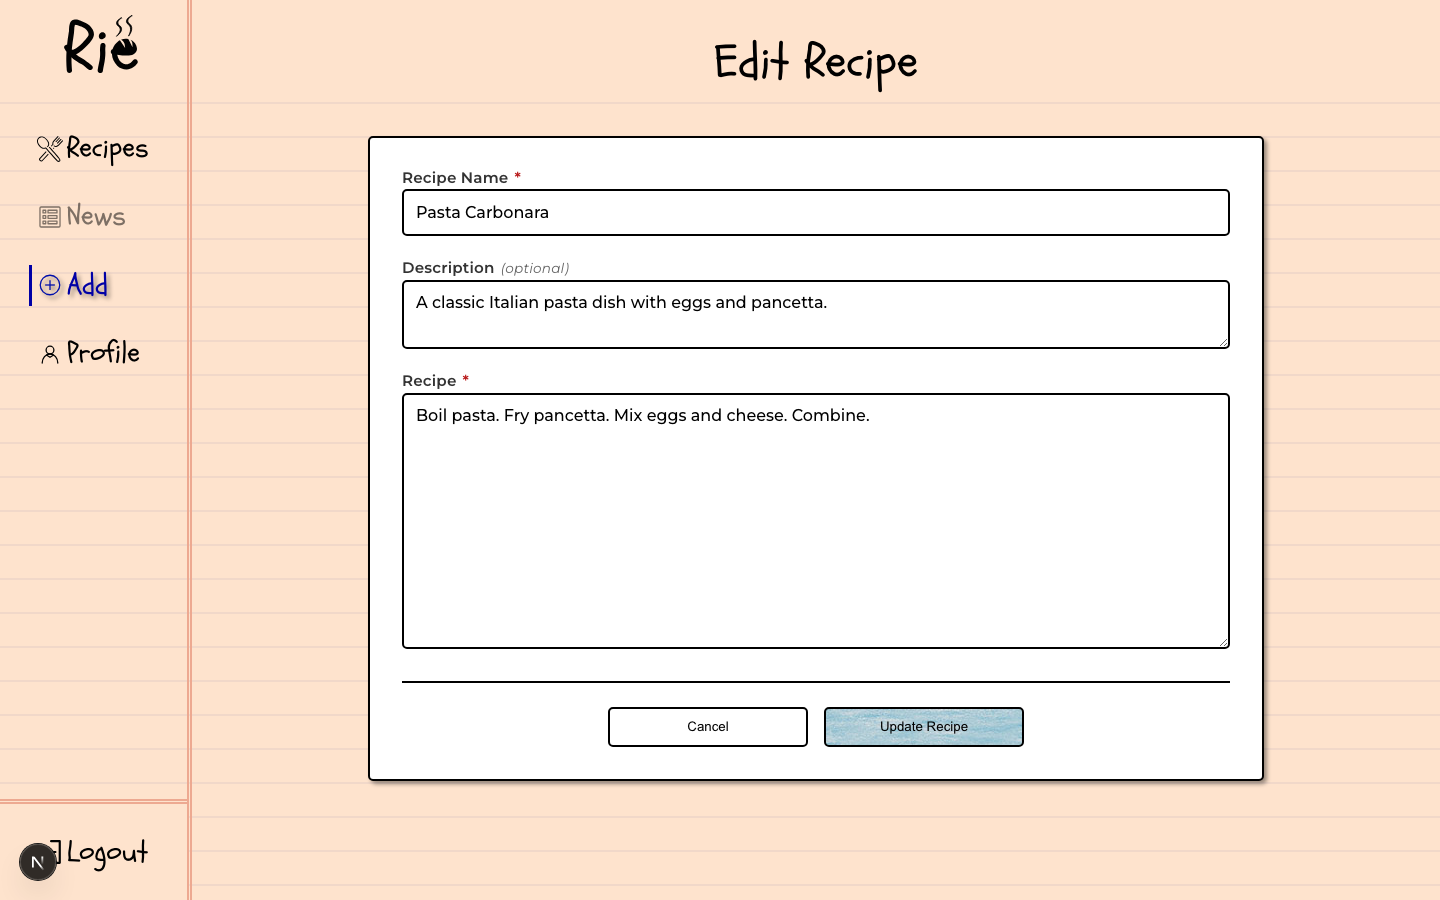
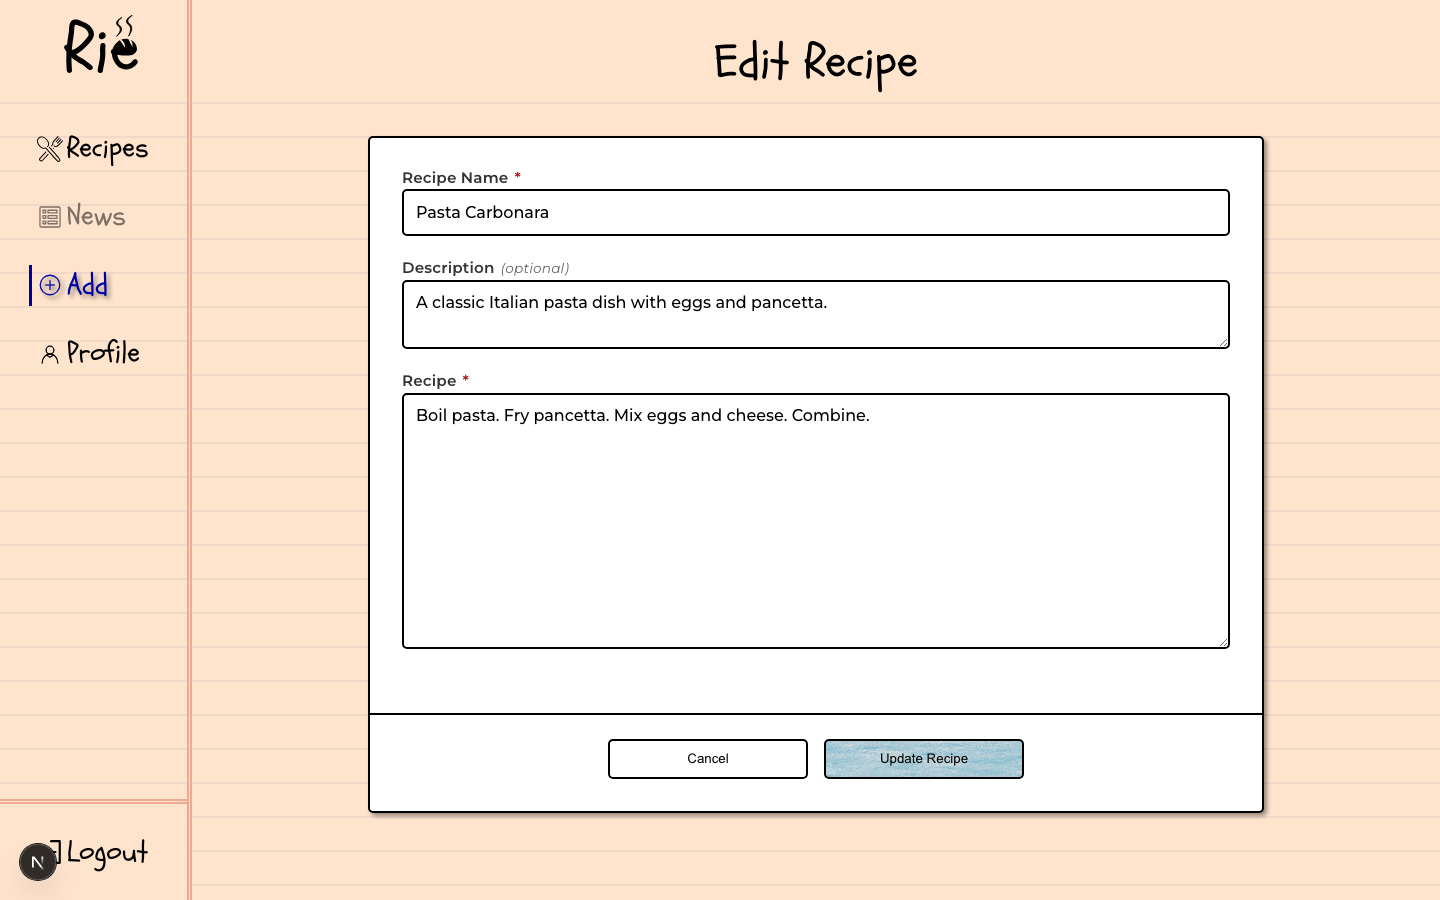
Run the form footer rule the full width of the card
The separator above the action buttons stopped at the card's padding,
which read as a short floating line. The fields now carry the inset
themselves (via a shared --form-padding custom property) and the footer
reuses it for its own padding, so its top rule runs edge to edge and
meets the card's side borders — same as the recipe list's paginator rule.

Changed region(s): [[0.25, 0.7778, 0.9062, 0.9333]]

diff --git a/src/components/Form/form.module.css b/src/components/Form/form.module.css
@@ -3,10 +3,14 @@
    same on every screen size. */
 
 .card {
+	/* Single source of truth for the form's inset: the fields take it as their
+	   padding and the footer reuses it, so the footer's rule can run the full
+	   card width, edge to edge. */
+	--form-padding: clamp(var(--space-md), 2.5vw, var(--space-xl));
 	width: 80%;
 	max-width: 56rem;
 	margin: var(--space-2xl) auto;
-	padding: clamp(var(--space-md), 2.5vw, var(--space-xl));
+	padding: 0;
 }
 
 .form {
@@ -19,6 +23,7 @@
 	display: flex;
 	flex-direction: column;
 	gap: var(--space-lg);
+	padding: var(--form-padding);
 }
 
 /* ── Field ── */
@@ -122,8 +127,10 @@
 	justify-content: center;
 	flex-wrap: wrap;
 	gap: var(--space-md);
+	/* Like the recipe list's paginator rule: full width, meeting the card's
+	   side borders at both ends. */
 	border-top: 2px solid #000;
-	padding-top: var(--space-lg);
+	padding: var(--space-lg) var(--form-padding) var(--form-padding);
 }
 
 @media (max-width: 900px) {
@@ -144,10 +151,6 @@
 }
 
 @media (max-width: 600px) {
-	.card {
-		padding: var(--space-md);
-	}
-
 	.textAreaLarge {
 		min-height: 13rem;
 	}
